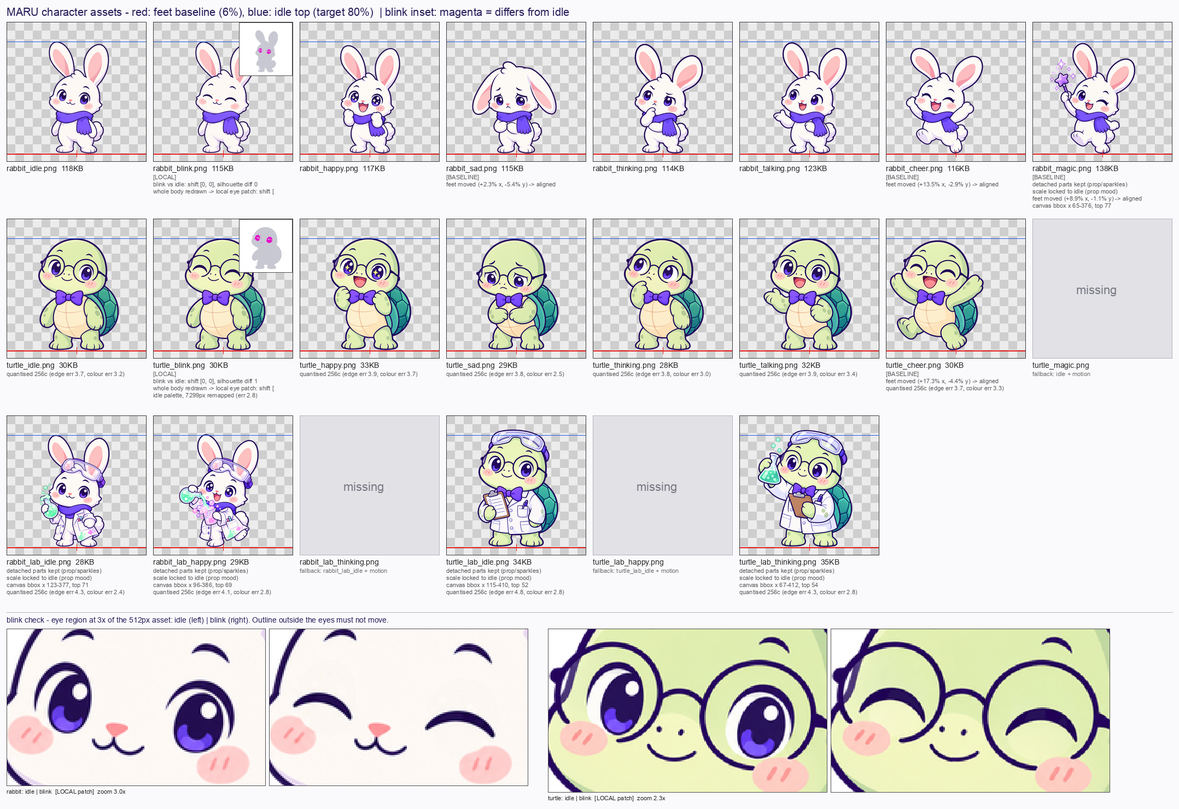
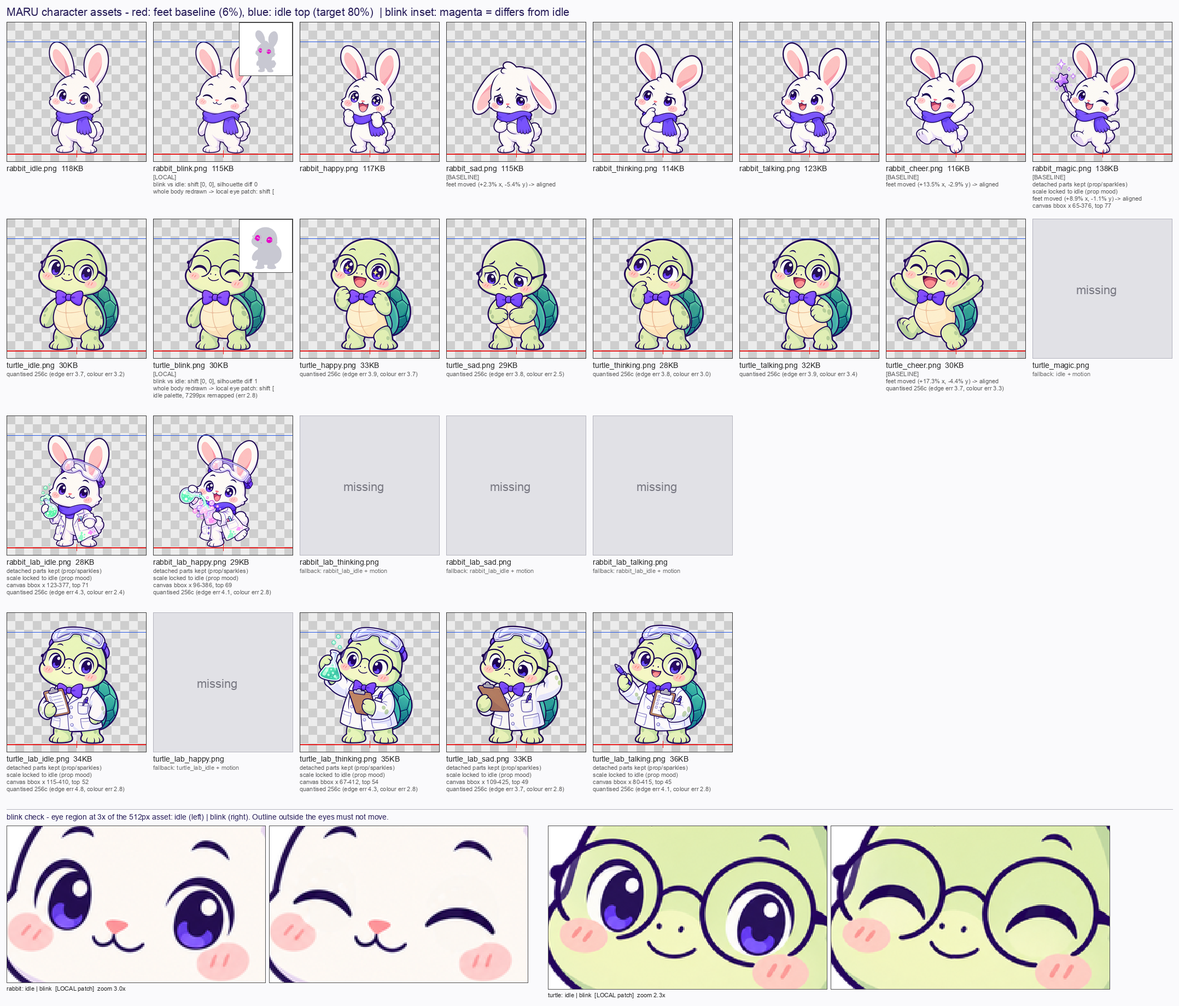
[PM] docs snapshot

diff --git a/docs/features/character/tools/process_characters.py b/docs/features/character/tools/process_characters.py
@@ -57,7 +57,7 @@ MOODS = ["idle", "blink", "happy", "sad", "thinking", "talking", "cheer", "magic
 PROP_MOODS = {"magic"}
 # lab outfit (CHR-1.8.2): <kind>_lab_<mood>.png, own contact-sheet row. Treated like prop moods
 # (flask foam / clipboard / goggles must not drive the scale) - head size checked against idle by hand
-LAB_MOODS = ["lab_idle", "lab_happy", "lab_thinking"]
+LAB_MOODS = ["lab_idle", "lab_happy", "lab_thinking", "lab_sad", "lab_talking"]  # sad/talking: CHR-1.8.5
 PROP_MOODS |= set(LAB_MOODS)
 ALL_MOODS = MOODS + LAB_MOODS
 
@@ -722,8 +722,8 @@ def contact_sheet(results: dict, path: str, args):
     blinks = [(kd, its["idle"], its["blink"]) for kd, its in blinks
               if "idle" in its and "blink" in its and getattr(its["blink"], "_eyebox", None)]
     strip_h = 360 if blinks else 0
-    lab_cells = [(kind, m) for kind in KINDS for m in LAB_MOODS]
-    W, H = pad + cw * max(len(MOODS), len(lab_cells)), 40 + rh * (len(KINDS) + 1) + strip_h
+    lab_rows = [[(kind, m) for m in LAB_MOODS] for kind in KINDS]  # one lab row per kind
+    W, H = pad + cw * max(len(MOODS), len(LAB_MOODS)), 40 + rh * (len(KINDS) + len(lab_rows)) + strip_h
     sheet = Image.new("RGB", (W, H), (250, 250, 252))
     d = ImageDraw.Draw(sheet)
     f_title, f, f_small = _font(20), _font(14), _font(11)
@@ -735,7 +735,7 @@ def contact_sheet(results: dict, path: str, args):
         for x in range(0, cell, 16):
             cd.rectangle([x, y, x + 15, y + 15], fill=(236, 236, 236) if (x + y) // 16 % 2 else (206, 206, 206))
     k = cell / CANVAS
-    rows = [[(kind, m) for m in MOODS] for kind in KINDS] + [lab_cells]
+    rows = [[(kind, m) for m in MOODS] for kind in KINDS] + lab_rows
     for r, row in enumerate(rows):
         oy = 40 + r * rh
         for c, (kind, mood) in enumerate(row):
@@ -792,7 +792,7 @@ def contact_sheet(results: dict, path: str, args):
         if kind_notes and r < len(KINDS):
             d.text((pad, oy + rh - 16), "  ".join(kind_notes), fill=(200, 110, 0), font=f_small)
     if blinks:
-        _blink_strip(sheet, d, blinks, 40 + rh * (len(KINDS) + 1), W, pad, f, f_small)
+        _blink_strip(sheet, d, blinks, 40 + rh * len(rows), W, pad, f, f_small)
     os.makedirs(os.path.dirname(os.path.abspath(path)), exist_ok=True)
     sheet.save(path, optimize=True)
 

diff --git a/docs/features/character/LOG_asset.md b/docs/features/character/LOG_asset.md
@@ -1,12 +1,12 @@
 # CHR — char-asset (이미지 후처리·에셋) 세션 로그
 
 ## ▶ HANDOFF (항상 최신 상태로 덮어쓰기)
-- 현재 태스크: 없음 — CHR-1.8.2 ✅ 실험복 4장 반영 (에셋 19장: rabbit 8 + turtle 7 + lab 4)
-- 다음 할 일: char-lead 검수 대기. raw 가 바뀌면 스크립트(인자 없이) → contact sheet(3줄: rabbit·turtle·lab + blink 비교) 확인 → 해당 png 만 `git add <경로>` 후 `git commit -- <경로>`(새 파일은 add 먼저 — commit -- 만으론 untracked 안 잡힘). 새 의상 표정은 `LAB_MOODS` 에 추가(자동으로 PROP_MOODS: 배율 idle 고정·떨어진 조각 유지·kind 배율 계산 제외). 머리 크기는 스크립트가 판정하지 않음 → 아래 기록의 "머리 정합" 방법으로 수동 확인
+- 현재 태스크: 없음 — CHR-1.8.5 ✅ 실험복 거북이 sad·talking 반영 (에셋 21장: rabbit 8 + turtle 7 + lab 6)
+- 다음 할 일: char-lead 검수 대기. raw 가 바뀌면 스크립트(인자 없이) → contact sheet(4줄: rabbit·turtle·rabbit lab·turtle lab + blink 비교) 확인 → 새 png 만 `git add <경로>` + `git commit -- <경로>`. 새 의상 표정은 `LAB_MOODS` 에 추가(자동으로 PROP_MOODS). 머리 크기는 스크립트가 판정하지 않음 → "머리 정합"(scratchpad reg.py 방식, 이동 ±30px 제한 권장 — 넓으면 손이 머리에 닿은 장에서 발산)으로 수동 확인
 - 막힌 것: 없음
 - 실행 중인 것: -
-- 마지막 커밋: 3985429 `[CHR-1.8.2] Add lab outfit assets`
-- char-lead 에게: 검수 요청 — lab 4장 3985429, char-dev R 필요. ① turtle_lab_thinking 머리 정합 −4.0%(기준 ±3% 초과처럼 보이나, 고개를 플라스크 쪽으로 돌린 포즈라 측정 오차 범위 — 이미 합격한 기존 장도 0.945~1.005) → **보정 안 함**. 화면에서 lab_idle↔lab_thinking 전환 시 머리가 작아 보이면 알려주면 그 장만 ×1.04 재출력(1분) ② turtle_lab_thinking 은 프롬프트(펜으로 턱 짚기)와 달리 플라스크를 들고 있음 — 검수 합격본 그대로 반영 ③ 금지 요소 없음(클립보드는 선·체크박스만)
+- 마지막 커밋: 16a37d8 `[CHR-1.8.5] Add turtle lab sad/talking assets`
+- char-lead 에게: 없음 — CHR-1.8.5 검수 합격(16a37d8), turtle_lab_thinking −4% 는 보정 안 함으로 확정(char-lead). 대기 중
 
 ## 기록 (시간순 추가만)
 ### 09-30 23:05~23:10 CHR-1.6.1.6 후처리 파이프라인 ✅ (docs/tools)
@@ -74,3 +74,15 @@
 - 금지 요소(ASSETS §6 ⚠) 없음: 클립보드는 선·체크박스만, 로고·글자·명찰·방호복·모자 없음
 - 확인: 스크립트 전체 실행 후 기존 15장 바이트 동일(scratchpad dry-run 에서 cmp + git status 에 새 4장만). contact sheet 육안(Read) — lab 줄 4장 baseline·머리 높이가 idle 과 같음
 - 커밋 3985429 (lab png 4장만, `git add <4경로>` + `git commit -- <4경로>`; char-dev 파일 안 건드림). 미확인: 시뮬레이터 표시(char-dev R 필요)
+
+### 10-02 19:29~19:31 CHR-1.8.5 실험복 거북이 sad·talking 반영 ✅ 16a37d8
+- raw: turtle_lab_sad(19:26)·turtle_lab_talking(19:28), 1254² RGBA 알파 제공, char-lead 검수 합격
+- 스크립트: `LAB_MOODS` 에 `lab_sad`·`lab_talking` 추가. contact sheet lab 줄을 kind 별 2줄(각 5칸)로 분리 — 한 줄이면 10칸이라 폭이 늘어남. 변경 전 사본 scratchpad 백업
+- 머리 크기(±3%): 머리 정합(idle 머리 외곽선 배율×회전×이동 탐색) talking 1.000. sad 는 이동 ±100px 탐색에선 0.855 로 발산(탐색 경계·단조 증가 — 손이 머리 뒤에 닿은 포즈, 기존 turtle_sad 도 같은 현상) → 눈 위치가 idle 과 거의 같아 이동 ±30px 로 제한: sad 0.965, 같은 조건 기존 합격본 turtle_sad 0.960 → 표정에 따른 측정 편차로 판단, 둘 다 보정 없음(배율 idle 그대로). 원본 나란히 육안으로도 머리 크기 같음
+- 결과: turtle_lab_sad 33KB(256색, 외곽 오차 3.7·색 오차 2.8, bbox x 109~425 상단 49), turtle_lab_talking 36KB(외곽 4.1·색 2.8, bbox x 80~415 상단 45) → 잘림 없음, baseline·발 중심 정렬(플래그 없음). 떨어진 조각 없음(둘 다 단일 덩어리)
+- 3배 확대(남색·보라 배경): 고글·안경·펜·클립보드(선·체크박스만, 글자 없음)·등껍질 외곽 선명, 계단·halo 없음. 금지 요소 없음
+- 확인: scratchpad dry-run 에서 기존 19장 cmp 바이트 동일 → 실제 실행 후 git status 에 새 2장만. contact sheet Read 육안 — turtle lab 줄 5칸(happy 는 missing/폴백) baseline·머리 높이 idle 과 같음
+- 커밋 16a37d8 (png 2장만). 미확인: 시뮬레이터 표시
+
+### 10-02 CHR-1.8.5 검수 합격 (char-lead)
+- 16a37d8 합격. turtle_lab_thinking −4% → 보정 안 함 확정. 대기

diff --git a/docs/00_pm/STATUS.md b/docs/00_pm/STATUS.md
@@ -13,10 +13,10 @@
 | mission-be | ✅ | MSN-1.8.1~1.8.3 완료 (난이도 easy/normal/hard, 기본 easy) | 6d7cd6d | 10-02 17:05 | **⚠ 서버 :8083 꺼짐(~19:02, 백그라운드 2시간 제한) — 필요하면 `scripts/run_backend.sh mission` 재실행**. mission-fe2: API_CONTRACT §1-8 — /setup 에 difficulty 전송, 응답 setup.difficulty 보존해 /chat·/suggestion·/clearance 로 전달, /clearance 응답 difficulty. 난이도별 실제 예시 LOG_be |
 | mission-fe | ✅ | R3 채팅 화면 1.7.2~1.7.6 전부 완료 | 1516ebe | 10-01 13:25 | push 안 함. 전후 스크린샷 docs/features/mission/screenshots/MSN-1.7.*. mission-fe2: 디자인 토큰은 LOG_fe HANDOFF '짝 세션에게' 참고 |
 | lab-be | 🟡 | 대기 (BE 태스크 전부 완료) | b1069ea | 09-30 20:08 | 서버 :8084 가동 — 20:06 다른 세션이 재시작(main 53ab930 기준, lab worktree), 400 응답 확인. 추가 작업 대기 |
-| lab-fe | ✅ | Step 1.9 전부 완료 (1.9.3 실험복 적용 포함) | 81970fe | 10-02 19:17 | screenshots/r5/after_outfit_* + character/screenshots/apply_lab_outfit_*. REQUESTS R-005·R-006. 서버·시뮬레이터 종료 |
-| char-lead | ✅ | Step 1.8 실험복(R5) 완료 — 에셋 4·API 검수 합격 | 3985429(브랜치) | 10-02 18:35 | **main-pm: PM_SYNC S-011 재머지(3985429)** → lab-fe 에 outfit lab 사용 가능 전달. 이후 버그 대기 |
+| lab-fe | ✅ | Step 1.9 전부 완료 (1.9.4 홈 카드 부제 포함) | 3294805 | 10-02 19:25 | after_5_home_lab_subtitle.png. R-006 대기. 서버·시뮬레이터 종료 |
+| char-lead | ✅ | CHR-1.8.5 실험복 거북이 sad·talking 검수 합격 | 16a37d8(브랜치) | 10-02 19:35 | **main-pm: PM_SYNC S-013 재머지(16a37d8)**, R-006 완료 처리. 코드 수정 불필요. 이후 버그 대기 |
 | char-dev | 🟡 | CHR-1.8.3 ✅ MaruOutfit(lab) → **char-lead 검수 요청** | c783d97 | 10-02 18:12 | `MaruOutfit { normal, lab }` + `outfit:`(기본 normal, 추가만) 사용 가능. 실제 lab PNG 4장(3985429) R 로 반영 확인(18:12). 없으면 기본 의상 PNG 로 폴백(예외 0). 테스트 41 통과 |
-| char-asset | 🟢 | CHR-1.8.2 ✅ 실험복 4장 반영 (에셋 19장) | 3985429 | 10-02 18:12 | lab 에셋 3985429 — char-dev R 필요 |
+| char-asset | 🟢 | CHR-1.8.5 ✅ 실험복 거북이 sad·talking 반영 (에셋 21장) | 16a37d8 | 10-02 19:31 | turtle_lab sad·talking 16a37d8 |
 | mission-fe2 | ✅ | R4 MSN-1.8.4·1.8.5 완료 + Easy 실기 확인 | c4b4266 | 10-02 17:25 | 토끼 답 1문장("물컵 필요하세요?")·힌트 짧음, 배지 채팅·리포트·목록 확인, /chat·/suggestion 에 difficulty 전달(로그). 추가 수정 없음. 스크린샷 screenshots/r4_fe2/1~7. push 안 함 |
 | dlv-design | 🟡 | DLV-4.1.2·4.2.2 ✅ → 4.2.3 대기(QR URL·최종 스크린샷) | - (커밋 안 함) | 10-01 22:35 | 책자 7장·포스터(시안 B) pptx+PDF+PNG, 안내 `deliverables/book/README.md`. **PM 확인**: 테스트 수치 123·67 사용(CLAIMS 는 107·11). PowerPoint 를 dlv-talk 와 같이 씀 — 내 변환 스크립트는 파일 이름으로만 문서 지정 |
 | dlv-talk | ✅ | DLV-4.3.1 발표 슬라이드 완료 (talk/OUTLINE·MARU_발표.pptx·NOTES·preview) | - (커밋 금지) | 10-01 22:45 | 16장·슬라이드 3분38초 + 시연 5~6분 자리(12장 DEMO). PM: CLAIMS 테스트 수치 107·11 → 123·67 갱신 요청. 지도교수 한경수 교수 표지 반영 |

diff --git a/docs/features/character/LOG_lead.md b/docs/features/character/LOG_lead.md
@@ -1,11 +1,11 @@
 # CHR — char-lead 세션 로그
 
 ## ▶ HANDOFF (항상 최신 상태로 덮어쓰기 — 컨텍스트 요약 후/후임 인수 시 여기부터)
-- 현재 태스크: 없음 — Step 1.8 실험복 전부 완료(CHR-1.8.1~4). PM_SYNC S-011 재머지(3985429) main-pm 응답 대기
-- 다음 할 일: 버그 대기. lab-fe 가 LAB-1.9.2·1.9.3 적용 스크린샷을 올리면 리뷰(실험복이 실험실 화면에만 쓰였는지, 이중 연출 없는지)
-- 에셋: 19장(기본 15 + lab 4). 새 의상 표정 추가 = raw → 스크립트 LAB_MOODS 에 추가 → 커밋(LOG_asset HANDOFF 참고)
-- 세션: char-dev·char-asset 은 10-02 새 세션(기존 세션 삭제 후 재시작) — 새로 열 땐 PROMPTS.md 10-02 블록처럼 정체성·worktree·읽을 문서·커밋 규칙을 다 넣을 것
-- 메인 PM 에게: S-011 [응답필요]
+- 현재 태스크: 없음 — CHR-1.8.5 ✅(16a37d8). PM_SYNC S-013 재머지 요청, main-pm 응답 대기
+- 다음 할 일: 버그 대기. 필요 시 lab 오류·결과 화면 실제 표시 스크린샷 확인(머지 후)
+- 결정: turtle_lab_thinking 머리 −4% **보정 안 함(최종)** — 4장 나란히 렌더에서 차이 안 보임, 측정 방식 오차(sad −3.5% 도 기존 turtle_sad 와 같은 경향)
+- 에셋: 21장(기본 15 + lab 6: 🐰 idle·happy / 🐢 idle·thinking·sad·talking)
+- 메인 PM 에게: S-013 [응답필요]
 
 ## 기록 (시간순 추가만)
 
@@ -104,4 +104,16 @@
 - 에셋 512 렌더(기본 idle 과 나란히, baseline 선): 배율·발 위치 일치, 소품(거품·고글 끈) 보존. turtle_lab_thinking 머리 −4% 측정은 고개 돌림 오차 → 화면상 차이 안 보여 보정 안 함(수용)
 - 갤러리 스크린샷 lab_real_png_stage: 19 PNG 인식, 토끼 lab_idle 실제 표시. (lab_real_png_menu.png 는 파일명과 달리 Bubbles/Scenario 영역 캡처 — 비차단)
 - 스펙 차이 승인: blink = 그려진 idle 의 짝(기본 의상 폴백 시 기본 blink) → CHARACTER_API §1·§5 반영
+
+### 10-02 19:30 · S-012 — lab 실험복 적용 리뷰 합격 + CHR-1.8.5 착수
+- 8장: 메뉴·한글랩 2·Sentence Lab 4(입력·오류 폴백·로딩·결과 폴백) 실험복, 홈 기본 의상 → 원칙 준수. 선택 제안: 로딩 화면 코드 플라스크 중복
+- 프롬프트 ASSETS §6.7(sad: 울지 않는 oops, 클립보드 내림·뒷머리 긁기) / §6.8(talking: 펜 들고 설명)
+
+### 10-02 19:30 · CHR-1.8.5 raw 2장 검수 → 합격
+- turtle_lab_sad: 작은 찡그림·눈썹 중앙 올림·클립보드 내림·뒷머리 긁기, 눈물 없음 → "울지 않는 oops" ✅ / turtle_lab_talking: 펜 들고 설명, 입 벌린 미소 ✅
+- 같은 얼굴·실험복·고글·나비넥타이, 투명, 금지 요소 없음, 40dp 에서도 표정 구분
+
+### 10-02 19:35 · CHR-1.8.5 검수 → 합격 · S-013
+- 16a37d8: 2파일(33·36KB), 기존 19장 불변. 실험복 거북이 4장 512 나란히 렌더 + baseline 선: 머리·발 일치
+- sad 얼굴 폭 0.965 → 기존 turtle_sad(0.960)와 같은 표정 효과로 판단, 보정 안 함. thinking −4% 도 최종 보정 안 함(char-asset 에 전달)
 

diff --git a/docs/features/character/ASSETS.md b/docs/features/character/ASSETS.md
@@ -76,7 +76,9 @@ Change ONLY the pose and facial expression as follows:
 | rabbit_lab_idle (CHR-1.8) | [x] | [x] 배율 idle 고정·거품 방울 유지 (3985429) | [ ] char-dev R |
 | rabbit_lab_happy (CHR-1.8) | [x] | [x] 배율 idle 고정·거품 유지 (3985429) | [ ] char-dev R |
 | turtle_lab_idle (CHR-1.8) | [x] | [x] 배율 idle 고정 (3985429) | [ ] char-dev R |
-| turtle_lab_thinking (CHR-1.8) | [x] | [x] 배율 idle 고정·방울 유지, 머리 −4% 측정 → 판단 대기 (3985429) | [ ] char-dev R |
+| turtle_lab_thinking (CHR-1.8) | [x] | [x] 배율 idle 고정·방울 유지, 머리 −4% 측정 → 보정 안 함 확정 (3985429) | [ ] char-dev R |
+| turtle_lab_sad (CHR-1.8.5) | [x] | [x] 배율 idle 고정 (16a37d8) | [ ] 재머지 후 |
+| turtle_lab_talking (CHR-1.8.5) | [x] | [x] 배율 idle 고정 (16a37d8) | [ ] 재머지 후 |
 
 ## 5. 품질 기준 (후처리 시 확인)
 - 14장 모두 같은 캐릭터로 보일 것 (얼굴형·색·소품). 어긋나면 해당 장만 재생성 요청
@@ -125,4 +127,18 @@ Change ONLY the pose and expression: holding the clipboard up and reading it car
 - 기존 idle 과 얼굴·크기·외곽선 동일, 발 baseline 동일, 투명 배경
 - 🐰 "장난꾸러기"(삐뚤어진 고글, 큰 실험복, 거품) / 🐢 "모범생"(단정, 클립보드, 이마 위 고글)이 40dp 축소에서도 구분될 것
 - 금지 요소(§6 ⚠) 없음. 실험복 흰색이 앱 배경(연보라·흰 카드) 위에서 외곽선으로 구분될 것
+
+### 6.7 turtle_lab_sad  (CHR-1.8.5 · 첨부: raw/turtle_lab_idle.png · 거북이 대화창)
+```
+[§6.1 공통 머리말]
+Keep the exact lab outfit from the reference (neat buttoned white lab coat, purple bow tie, round glasses, goggles on top of the head, pen in pocket, clipboard).
+Change ONLY the pose and expression: a gentle, sympathetic "oops, that didn't work" look — small frown, eyebrows slightly raised in the middle, eyes looking down at the clipboard held lowered at waist height, head slightly lowered, the other hand lightly scratching the back of its head. Calm and kind, NOT crying, no tears, no sweat drops, no symbols.
+```
+
+### 6.8 turtle_lab_talking  (CHR-1.8.5 · 첨부: raw/turtle_lab_idle.png · 거북이 대화창)
+```
+[§6.1 공통 머리말]
+Keep the exact lab outfit from the reference (neat buttoned white lab coat, purple bow tie, round glasses, goggles on top of the head, pen in pocket, clipboard).
+Change ONLY the pose and expression: explaining something like a friendly teacher — mouth open mid-sentence with a warm smile, holding the clipboard against its chest with one arm, the other hand raised to shoulder height holding the pen up as if pointing out a key point, eyes looking at the viewer. No speech bubble, no text, no symbols.
+```
 

diff --git a/docs/features/lab/LOG_fe.md b/docs/features/lab/LOG_fe.md
@@ -1,11 +1,11 @@
 # LAB — Language Lab — FE 세션 로그 (`lab-fe`)
 
 ## ▶ HANDOFF (항상 최신 상태로 덮어쓰기 — 컨텍스트 요약 후 여기부터 읽는다)
-- 현재 태스크: 없음. Step 1.9 전부 완료 (1.9.1 89a66e2 · 1.9.2 4fb6b24+fe59a69 · 1.9.3 81970fe)
+- 현재 태스크: 없음. Step 1.9 전부 완료 (1.9.1 89a66e2 · 1.9.2 4fb6b24+fe59a69 · 1.9.3 81970fe · 1.9.4 3294805)
 - 다음 할 일: PM 지시 대기
-- 막힌 것 / 기다리는 것: REQUESTS R-005(홈 카드 부제, PM) · R-006(turtle_lab_sad·talking 에셋, char-lead) — 에셋만 추가되면 코드 수정 없이 자동 반영
+- 막힌 것 / 기다리는 것: R-006(turtle_lab_sad·talking 에셋, char-lead) — 에셋만 추가되면 코드 수정 없이 자동 반영
 - 실행 중인 것: 없음 (서버 :8084·flutter run·iPhone 16 Pro 시뮬레이터 종료)
-- 마지막 커밋: 81970fe
+- 마지막 커밋: 3294805
 - 짝 세션에게: API 변화 없음
 - 주의: 새 캐릭터 에셋은 hot reload 로 안 잡힘 → flutter run 재시작. 시뮬레이터 도구는 device 꼭 지정, 연속 탭 1초 이상. 시뮬레이터 입력은 한국어 키보드라 영어 `text` 가 자모로 바뀜(오류 테스트는 숫자 "12345" 로)
 
@@ -153,3 +153,7 @@
 - 폴백(CHARACTER_API v1.3, 의상 우선): 거북이 sad·talking 실험복 에셋이 없어 `turtle_lab_idle` 로 표시 → 오류 화면에서 슬픈 표정이 사라짐(문구·버튼은 그대로). 에셋만 추가되면 코드 수정 없이 반영 → REQUESTS R-006(char-lead).
 - 확인(16 Pro, 서버 :8084): `screenshots/r5/after_outfit_1_menu`, `2_hangeul_idle`, `3_hangeul_happy`(ㄱ+ㅏ=가), `4_sentence_idle`, `5_sentence_error_sad_fallback`("12345" → 400, Gemini 없음), `6_sentence_loading_thinking`, `7_sentence_result_talking_fallback`, `8_home_normal_outfit`. 같은 파일을 char-lead 리뷰용 `docs/features/character/screenshots/apply_lab_outfit_*.png` 로도 저장.
 - Gemini 호출 1회(강아지가 뛰어요 + Past·Casual → 로딩 캡처용, 결과 "강아지가 뛰었어"). analyze No issues, test/features/lab 6/6.
+
+### 10-02 · LAB-1.9.4 [FE] 홈 Language Lab 카드 부제 (PM 위임, R-005) (3294805)
+- `screens/home/home_screen.dart` 131행 한 줄만: "Ask AI about Korean grammar" → "Experiment with letters and sentences". 다른 줄 변경 없음(git diff 1+/1-).
+- 확인: analyze lib/screens/home No issues, 16 Pro 홈 `screenshots/r5/after_5_home_lab_subtitle.png`(두 줄로 들어감).

diff --git a/docs/features/character/PLAN.md b/docs/features/character/PLAN.md
@@ -65,7 +65,7 @@
 ### Step 1.8 실험복 의상 (10-02 17:40, R5) — 실험실 화면 전용
 > 성격: 🐰 **사고뭉치 장난꾸러기 실험자**(고글 삐뚤, 비커 거품 넘침) / 🐢 **진중한 모범생 실험자**(깔끔한 실험복, 클립보드, 고글은 이마 위). ⚠ 특정 작품(브레이킹 배드 등) 오마주·노란 방호복·로고 스타일 금지(D-25).
 - [x] CHR-1.8.1 [LEAD] GPT 프롬프트 4장 작성(기존 idle 을 참조로 같은 캐릭터·스타일·프레이밍 유지 + 실험복): `rabbit_lab_idle`, `rabbit_lab_happy`(신나서 비커 붓기), `turtle_lab_idle`, `turtle_lab_thinking`(클립보드 보며 생각) → 하도윤에게 전달, raw 검수 — 프롬프트 ASSETS.md §6 (10-02 17:50 전달), raw 4장 검수 합격 17:58
-- [x] CHR-1.8.2 [ASSET] 후처리 → `assets/characters/<kind>_lab_<mood>.png` (기존 baseline·배율 유지) — ✅ 3985429 (10-02 18:12, 4장 28~36KB, 배율 idle 고정·보정 없음. turtle_lab_thinking 머리 −4% 측정(고개 돌림 오차 범위) → char-lead 판단 대기)
+- [x] CHR-1.8.2 [ASSET] 후처리 → `assets/characters/<kind>_lab_<mood>.png` (기존 baseline·배율 유지) — ✅ 3985429 (10-02 18:12, 4장 28~36KB, 배율 idle 고정·보정 없음. turtle_lab_thinking 머리 −4% 측정(고개 돌림 오차 범위) → 보정 안 함 확정)
 - [x] CHR-1.8.3 [DEV] 공개 API 에 **`MaruOutfit { normal, lab }` + `outfit:` 파라미터 추가**(기본 normal — 기존 호출 무변경). 해당 의상·표정 PNG 없으면 → 같은 의상 idle → 기본 의상 해당 표정 → … 기존 폴백 체인. 갤러리에 Outfit 토글, 테스트, CHARACTER_API §1·§5 갱신 — ✅ fbd4010·c783d97 (10-02 18:06, 실제 lab PNG 는 CHR-1.8.2 후 R 확인 예정)
 - [x] CHR-1.8.4 [LEAD] 검수 → PM_SYNC 재머지 요청 — 10-02 18:35 합격, PM_SYNC S-011
-- [ ] CHR-1.8.5 [LEAD] (R-006) 실험복 거북이 표정 2장 추가: `turtle_lab_sad`(Sentence Lab 오류 화면), `turtle_lab_talking`(Combine 결과 설명) — GPT 프롬프트 → 하도윤 생성 → char-asset 반영 → 재머지 요청(코드 수정 불필요)
+- [x] CHR-1.8.5 [LEAD] (R-006) 실험복 거북이 표정 2장 추가: `turtle_lab_sad`(Sentence Lab 오류 화면), `turtle_lab_talking`(Combine 결과 설명) — GPT 프롬프트 → 하도윤 생성 → char-asset 반영 → 재머지 요청(코드 수정 불필요) — ✅ 16a37d8 (10-02 19:35 검수 합격, PM_SYNC S-013)

diff --git a/docs/00_pm/PM_SYNC.md b/docs/00_pm/PM_SYNC.md
@@ -115,3 +115,11 @@
 ### S-012 · main-pm → char-lead · 10-02 19:21 · [응답필요]
 - 내용: lab-fe 가 실험실 7곳을 실험복으로 교체(머지 15차). R-006: 실험복 거북이 sad·talking 이 없어 오류 화면·Combine 결과에서 실험복 idle 로 폴백 중.
 - 요청: CHR-1.8.5 — `turtle_lab_sad`·`turtle_lab_talking` GPT 프롬프트를 하도윤에게 주고, 반영 후 재머지 요청. 그리고 apply_lab_outfit_*.png 8장 리뷰도 부탁.
+↳ char-lead · 10-02 19:30: ① apply_lab_outfit_1~8 리뷰 **합격, 필수 수정 0**. 메뉴(카드별 🐰 장난꾸러기 / 🐢 모범생 실험복), 한글랩 idle·happy, Sentence Lab 입력·로딩(🐢 lab thinking)·결과·오류 모두 실험복, 홈은 기본 의상 유지(실험실 전용 원칙 OK). 5·7번(오류 sad·결과 talking)은 lab_idle 폴백 — 이번 CHR-1.8.5 로 해결. 선택(비차단): 6번 로딩 화면 오른쪽 코드 플라스크가 거북이가 든 플라스크와 겹쳐 플라스크 2개 — 그대로 둬도 되고, 빼면 화면이 더 깔끔. ② CHR-1.8.5 프롬프트(ASSETS §6.7·6.8, sad 는 "울지 않는 oops" 톤) 하도윤 전달. raw 도착 → char-asset 반영 → 검수 → S-013 재머지 요청.
+
+### S-013 · char-lead → main-pm · 2026-10-02 19:35 · [응답필요]
+- 내용: CHR-1.8.5(R-006) 완료·검수 합격 — feat/character HEAD **`16a37d8`** (3985429 위 1커밋, `assets/characters/turtle_lab_sad.png`·`turtle_lab_talking.png` 2파일만). 코드·pubspec 변경 없음(파일만 있으면 폴백 체인이 자동으로 사용). char-lead 확인: 512 렌더에서 실험복 거북이 4장(idle·thinking·sad·talking) 머리 크기·baseline 일치, sad = 울지 않는 "oops" 톤, 금지 요소 없음.
+- 요청/제안:
+  1. **feat/character 재머지(16a37d8)** → lab worktree 동기화(앱 완전 재시작) → Sentence Lab 오류 화면은 실험복 sad, Combine 결과 설명은 실험복 talking 으로 **lab-fe 코드 수정 없이** 바뀜. R-006 완료 처리 부탁.
+  2. 캐릭터 팀 에셋 현황: 21장(기본 15 + 실험복 6). 다시 버그 대기.
+

diff --git a/docs/features/lab/PLAN.md b/docs/features/lab/PLAN.md
@@ -58,4 +58,4 @@
 - [x] LAB-1.9.1 [FE] (89a66e2) P0 화면 문구 이름 변경: `AI Grammar Lab` → **`Sentence Lab`** (메뉴 카드 제목, 화면 AppBar). 메뉴 부제 "Explore grammar rules with our AI assistant." → 거북이 실험 컨셉 문구(예: "Turtle experiments with your sentence — tense, politeness, negation."), 설명 어딘가에 작게 **AI-powered** 표기 유지(정직성). 코드 주석에 용어표 한 줄(`// Sentence Lab (UI name) == AI Grammar Lab (legacy code name)`)
 - [x] LAB-1.9.2 [FE] (4fb6b24 · 실험복 fe59a69) P0 **Language Lab 메뉴 화면 실험실 무드 리디자인**: 앱 톤(연보라·흰 카드·라운드 20~22) 유지 + 모눈종이/실험 노트 느낌 배경, 비커·플라스크 등 실험 소품(코드로 그리기, 새 패키지 금지), 카드에 은은한 거품 애니메이션(접근성 disableAnimations 존중), 상단에 실험복 토끼·거북이(아래 CHR-1.8 의 `outfit: MaruOutfit.lab` — 머지 전에는 기본 옷으로 만들고 PM 동기화 후 교체). 한글랩 = 토끼(장난꾸러기 실험), 문장 실험실 = 거북이(진중한 실험)로 카드별 담당 캐릭터
 - [x] LAB-1.9.3 [FE] (81970fe) P1 한글랩·문장 실험실 화면의 캐릭터도 실험복(outfit lab)으로 — CHR-1.8 머지 후
-- [ ] LAB-1.9.4 [FE] P1 **(PM 위임, R-005)** 홈 `home_screen.dart` Language Lab 카드 부제 "Ask AI about Korean grammar" → "Experiment with letters and sentences" — **이 한 줄만** 수정
+- [x] LAB-1.9.4 [FE] (3294805) P1 **(PM 위임, R-005)** 홈 `home_screen.dart` Language Lab 카드 부제 "Ask AI about Korean grammar" → "Experiment with letters and sentences" — **이 한 줄만** 수정

diff --git a/docs/features/character/PROMPTS.md b/docs/features/character/PROMPTS.md
@@ -225,3 +225,12 @@ char-asset, R5 새 태스크 CHR-1.8.2 [ASSET] P0 — 실험복 4장 후처리. 
 - 커밋: git commit -m "[CHR-1.8.2] Add lab outfit assets" -- frontend/maru/assets/characters/<새 파일들>. pubspec 변경 불필요. PLAN·ASSETS §4 표(lab 4줄)·LOG_asset·STATUS(메모 "lab 에셋 <해시> — char-dev R 필요") 갱신 후 "char-lead 검수 요청".
 ```
 
+### 10-02 19:30 · char-lead → char-asset (CHR-1.8.5 반영)
+```
+char-asset, CHR-1.8.5 반영 — 실험복 거북이 표정 2장. raw/turtle_lab_sad.png, raw/turtle_lab_talking.png 도착(char-lead 검수 합격).
+- 스크립트 LAB_MOODS 에 sad·talking 추가(소품 표정 처리: 배율·baseline 은 turtle 기본 idle 고정, 작은 조각 유지) → frontend/maru/assets/characters/turtle_lab_sad.png, turtle_lab_talking.png
+- 얼굴 폭 ±3% 확인(넘으면 보고), 잘림 없음, ≤150KB. 기존 19장 바이트 불변(git 에 새 파일 2개만). contact sheet lab 줄 갱신 → 직접 확인.
+- 커밋: git add <새 2파일> 후 git commit -m "[CHR-1.8.5] Add turtle lab sad/talking assets" -- <새 2파일>. 코드·pubspec 변경 없음.
+- ASSETS §4 표 2줄, LOG_asset + HANDOFF, STATUS(메모 "turtle_lab sad·talking <해시>") 갱신 후 "char-lead 검수 요청".
+```
+
